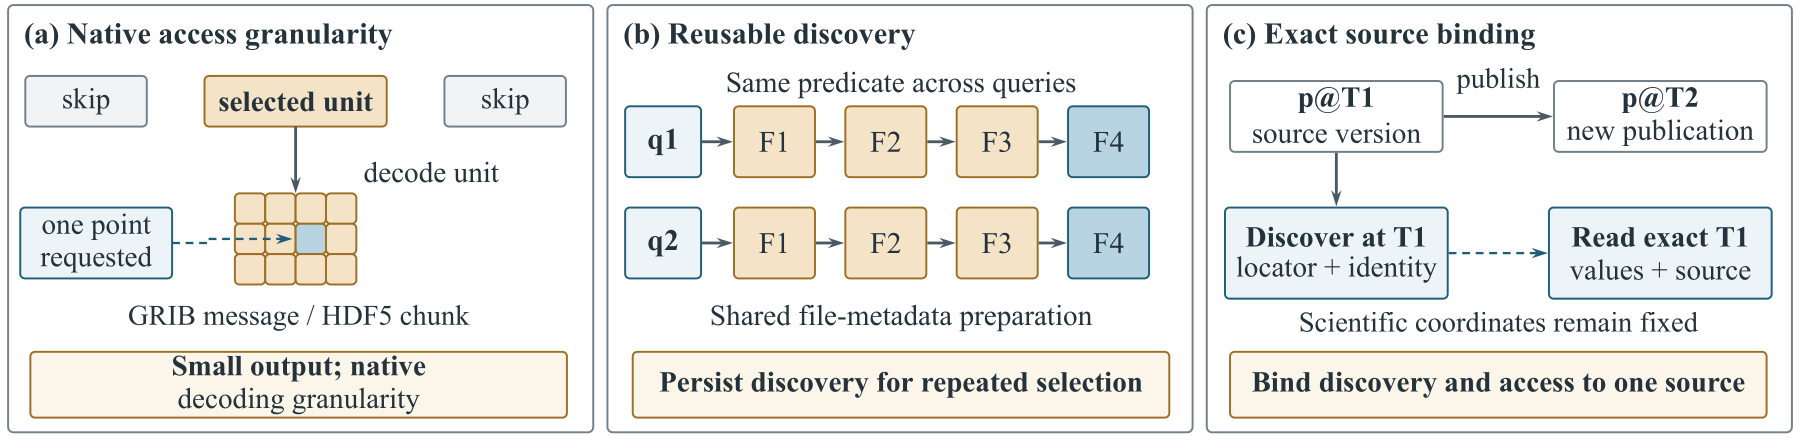
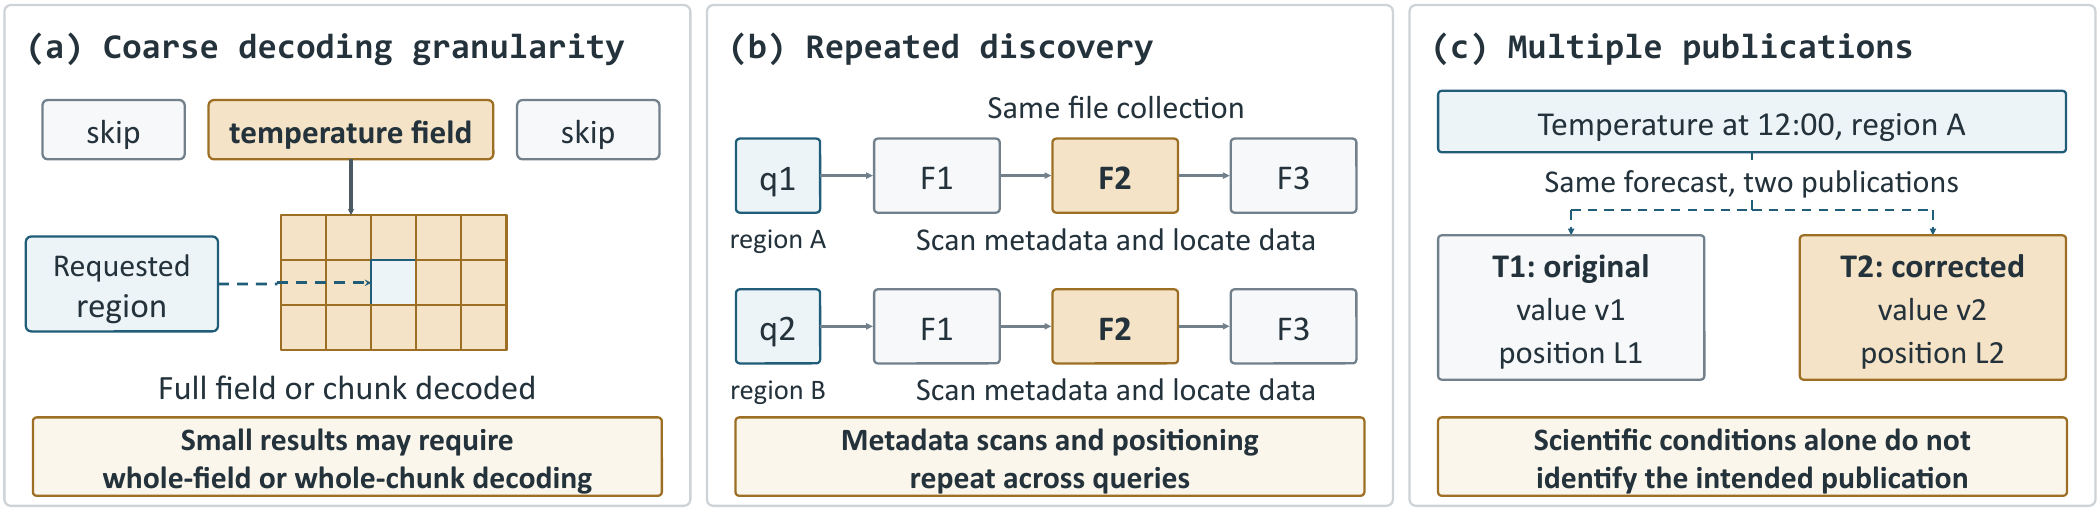
docs: update readme

diff --git a/README.md b/README.md
@@ -1,12 +1,14 @@
-# IoTDB-FS
+# SciRoute
 
-**Layered query processing for structured scientific files.**
+**From scientific queries to native file access.**
 
 **English** | [简体中文](README.zh-CN.md)
 
-IoTDB-FS connects scientific metadata, native file layouts, and exact source versions in a unified **Structured Blob** representation. It combines filesystem access with database query processing so that applications can select scientific fields across files and publication versions while retaining their original encoding and provenance.
+SciRoute unifies scientific selection and publication-version selection through **semantic access paths**. A **Structured Blob** associates scientific and structural metadata, native layout, and original encoded content with an exact published file version. Reusable metadata and locators avoid repeated discovery while preserving the requested interpretation and source.
 
-This repository contains two execution paths: **FS-index**, a standalone index with native readers, and **IoTDB-FS**, a managed filesystem and query runtime backed by IoTDB. It accompanies the research manuscript *Beyond Opaque Byte Streams: Layered Query Processing for Structured Scientific Files*.
+This repository contains two execution paths: **FS-index**, a standalone index with native readers, and **IoTDB-FS**, a managed filesystem and query runtime backed by IoTDB. It accompanies *SciRoute: From Scientific Queries to Native File Access*. The build targets and runtime retain the IoTDB-FS name.
+
+Start with [standalone FS-index](#standalone-fs-index) for native-library verification, [managed IoTDB-FS](#managed-iotdb-fs) for service setup, or [paper reproduction](#reproducing-the-paper) for workload and measurement requirements.
 
 ## Why index scientific files?
 
@@ -14,15 +16,15 @@ Selecting a small scientific result can still require repeated file discovery an
 
 ![Scientific-file access: native decoding granularity, reusable discovery, and exact source-version binding.](resources/readme/iotdb-fs-motivation.png)
 
-*Figure from the manuscript: small outputs, repeated discovery, and source identity are distinct parts of query cost and correctness.*
+*Latest manuscript Figure 1: coarse decoding granularity, repeated discovery, and multiple publications. Scientific conditions alone do not identify the intended publication.*
 
 ## Design
 
-A Structured Blob associates publication identity, typed scientific metadata, native layout, and original bytes. Its semantic index maps scientific predicates to native units; native indexes or supplementary access structures locate those units.
+A Structured Blob associates publication identity, typed scientific metadata, native layout, and original bytes. A declared **semantic mapping** establishes quantities, units, coordinates, time conventions, and missing-value rules. Semantic access paths associate these meanings with native units and source-specific locators; reader capabilities determine the physical plan.
 
 ![Structured Blob and layered query processing, from version binding through discovery and format planning to execution and typed results.](resources/readme/iotdb-fs-framework.png)
 
-*Figure from the manuscript. The FS-index panel includes the paper's experimental profiles; the standalone component's implemented scope is listed below.*
+*Latest manuscript Figure 2: source binding, reusable discovery, native planning, and execution/results retain the selected source throughout. [Figure provenance](resources/readme/README.md) records the manuscript revision and asset hashes.*
 
 The query path follows four steps:
 
@@ -52,13 +54,13 @@ FS-index supports incremental maintenance; its intended use is not restricted to
 - **HDF5:** dataset metadata and native selections; the managed adapter provides `iotdb-indexed` and explicitly bound `native-hdf5` modes. See the [HDF5 query-mode contract](docs/contracts/hdf5-query-modes.md).
 - **Arrow IPC:** the managed adapter supports its declared tabular and nested-array profiles. Scientific roles require verified format or product metadata; arbitrary column names do not establish units or time semantics.
 
-The standalone [`fs_index/`](fs_index/README.md) library currently implements the bounded GRIB/HDF5 profile: six attribute equalities and complete 4,096-element selected units. General HDF5 role mapping and Arrow adaptation are outside that library's current interface. The manuscript's agent-assisted bindings are checked adaptations, not automatic semantic inference for arbitrary files.
+The standalone [`fs_index/`](fs_index/README.md) library currently implements the bounded GRIB/HDF5 profile: six attribute equalities and complete 4,096-element selected units. General HDF5 role mapping and Arrow adaptation are outside that library's current interface. The paper also evaluates separate Arrow sidecars and a large-file Python catalog profile; these are not the same API as the C++ fixed-unit library. Agent-proposed semantic mappings are checked against source records. The evaluated external mapping versions are fixed; dynamic mapping-version propagation is not an evaluated capability.
 
 ## Getting started
 
 ```bash
-git clone https://github.com/thulab/IoTDB-FS.git
-cd IoTDB-FS
+git clone https://github.com/thulab/SciRoute.git
+cd SciRoute
 ```
 
 ### Standalone FS-index
@@ -74,6 +76,28 @@ cmake --build build/fs-index --target fs_index_native --parallel 2
 ```
 
 The library is `build/fs-index/libfs_index_native.so`. See the [FS-index guide](fs_index/README.md) for the Python API, input requirements, incremental publication, and functional/recovery tests. Test builds enable fault-injection hooks; use a separate Release build with tests disabled for measurements.
+
+### Verify before benchmarking
+
+Two Python-only catalog/handle-lifecycle checks use fixture readers and need no IoTDB service or native library:
+
+```bash
+python3 -m unittest fs_index.tests.test_lifecycle fs_index.tests.test_hdf5_handles -v
+```
+
+For real GRIB/HDF5 reads and maintenance/recovery gates, install Python **3.10+**, NumPy and h5py, then use a separate test build. The ecCodes sample definitions must be available. Match the native-library profile described in [FS-index](fs_index/README.md); some experiment generators additionally require h5py to load HDF5 1.14.4.
+
+```bash
+cmake -S fs_index -B build/fs-index-test \
+  -DCMAKE_BUILD_TYPE=Release \
+  -DHDF5_DIR=/path/to/hdf5-1.14.4/lib/cmake/hdf5 \
+  -DPython3_EXECUTABLE=/path/to/venv/bin/python \
+  -DFS_INDEX_BUILD_TESTS=ON
+cmake --build build/fs-index-test --target fs_index_native --parallel 2
+ctest --test-dir build/fs-index-test --output-on-failure
+```
+
+CTest registers `fs_index_native_functional` and `fs_index_maintenance` and supplies the native-library path. These tests generate small fixtures; passing them establishes functional checks, not the paper's performance results. Use the separate tests-disabled build above for measurements.
 
 ### Managed IoTDB-FS
 
@@ -113,21 +137,54 @@ fusermount -u /path/to/mount
 
 For query syntax, deployment, and configuration details, see the [user manual](docs/knowledge/user_manual/01-overview.md) (Chinese) and the contracts below.
 
-## Documentation and experiments
+## Reproducing the paper
 
-| Topic | Entry point |
+**Current artifact scope:** this repository provides implementation source, dependency locks, functional tests, and retained experiment drivers. It is **not yet a self-contained archive for reproducing every paper number**. The custom SDK/server, full data and converted inputs, accepted scientific mappings, and some frozen controller/raw-result bundles are external prerequisites. Local paths and historical report names in older protocols are not public download links.
+
+### 1. Pin the implementation and environment
+
+Record `git rev-parse HEAD`, `git status --short`, compiler/OS/CPU details, the [dependency-lock](ci/dependencies.lock.json) digest, loaded native-library versions, binary hashes, and the Python environment (`python3 -m pip freeze`). The lock specifies the native CI profile; it does not lock all experiment Python packages.
+
+The paper's measurements use Ubuntu 24.04.4 LTS, Intel Xeon Gold 6130 at 2.10 GHz, 32 logical CPUs, and 189–378 GiB RAM across campaigns. The CI build profile is Ubuntu 22.04/GCC 11. Local query experiments share two CPU cores across client, native helper, service and DataNode, with a 2 GiB query-memory budget; database memory is separately bounded and differs between campaigns. Use each protocol's actual limits rather than interpreting this as a 2 GiB total-system limit. Remote-access experiments use separate query/storage budgets on one host.
+
+### 2. Prepare data, mappings, and native oracles
+
+| Input family | Required preparation |
 | --- | --- |
-| Scientific data and execution concepts | [Domain context](CONTEXT.md) |
-| Standalone index and maintenance API | [FS-index](fs_index/README.md) · [Maintenance contract](docs/contracts/fs-index-maintenance-v2.md) |
-| Query and adapter organization | [Module layout](docs/knowledge/query-module-layout.md) |
-| Query scheduling and result delivery | [Task scheduler](docs/contracts/query-task-scheduler.md) · [Result fetch](docs/contracts/result-fetch.md) |
-| User and deployment documentation | [User manual](docs/knowledge/user_manual/01-overview.md) · [Documentation index](docs/README.md) |
-| Build, tests, and packaging | [CI](ci/README.md) · [Unit tests](tests/unit/README.md) · [Integration tests](tests/integration/README.md) · [Packaging](packaging/README.md) |
-| Fixed query workloads | [Experiment matrix](experiments/fixed_matrix/README.md) |
-| Cross-file and historical queries | [Multi-file experiments](experiments/multi_file/README.md) · [Version experiments](experiments/cross_version/README.md) |
-| Maintenance and stored-data query sessions | [Maintenance](experiments/maintenance_lifecycle/README.md) · [Resident queries](experiments/resident_table5/README.md) |
+| Controlled GRIB/HDF5 collections and histories | Retain the corpus/case identities and generators in [FM1](experiments/fixed_matrix/README.md) and [multi-file preparation](experiments/multi_file/README.md). The fixed-unit profile uses four 64×64 units per file, six attribute equalities, and two selected units. A new generated corpus is a new run, not the archived dataset identity. |
+| Real GFS GRIB, OISST and GEOS HDF5 | Obtain the exact product files and source digests recorded by the accepted campaign. A product family name or a later daily download is insufficient. Native helpers are under [single-file experiments](experiments/single_file/README.md); full source inventories are not bundled here. |
+| Beijing, Jena and the Arrow extension | Use [Beijing source data](https://archive.ics.uci.edu/dataset/501/beijing+multi+site+air+quality+data), [Jena records](https://www.bgc-jena.mpg.de/wetter/weather_data.html), [Appliances](https://archive.ics.uci.edu/dataset/374/appliances+energy+prediction), and the paper's [GIFT-Eval revision](https://huggingface.co/datasets/Salesforce/GiftEval/tree/30841734ac5cfddbd0c3bad6d09d2b6b32becbb0). Exact conversions, sidecars, query manifests and source-record checks are also needed; the complete accepted Arrow experiment bundle is not packaged in this repository. |
 
-The manuscript compares FS-scan, indexed native access, and managed execution under specified workloads. Reproduction requires the data, dependency versions, query semantics, cache state, and timing boundaries recorded for each experiment. Experiment directories include protocols and scripts; full datasets and archived run outputs are not all bundled in this repository. Some documentation is currently available in Chinese only.
+Beijing uses flat columns with verified calendar-to-row alignment; Jena uses nested lists and ordinal windows. Do not infer time zones, units or channel meaning from Arrow types alone. Verify source/version identity, shapes, ordering, values, validity masks and applicable coordinates against native readers before accepting a run. Record source hashes and the semantic-mapping revision shared by all paths.
+
+### 3. Select the matching driver and evidence bundle
+
+| Paper study | Retained entry points | Additional requirements / boundary |
+| --- | --- | --- |
+| Semantic mappings and index construction | [FS-index tests/API](fs_index/README.md), format [contracts](docs/README.md) | Offline rebuild time excludes Agent development; the complete accepted Beijing/Jena adaptation bundle is external. |
+| Cross-file and historical queries | [FM1 protocol](experiments/fixed_matrix/README.md), `experiments.fixed_matrix.run`, `hdf5_filesystem`, `multiversion_scan` | Require sealed source collections, native/build bindings and registration receipts. Current source alone does not reconstruct every accepted campaign; strict historical controllers need their matching snapshots. |
+| Single-file selections and independent sessions | [Single-file protocol](experiments/single_file/README.md), `section42_20261026/` | Separate managed-mode study; do not relabel it as the three-path FS-index experiment. |
+| Warm queries over stored data | [Resident protocol](experiments/resident_table5/README.md), `run.py`, `cache_run.py` | Require existing durable sources, catalogs, owner journals and prior run manifests. HDF5 native-handle measurements are a separate follow-up; managed results retain the original campaign. |
+| Incremental publication/maintenance | [M1 protocol](experiments/maintenance_lifecycle/README.md), `run.py`, `supervise.py` | Eight initial files, sixteen updates, 1/10/100 queries per update, three paths and three rounds. Complete traces include copying/publication; they are not marginal indexing costs on already stored DB payloads. |
+| Simulated remote access and Arrow three-path extension | Current format/runtime source; campaign-specific external bundles | Accepted network setup/controllers, Arrow sidecars, manifests and raw measurements are not fully distributed here. Remote results are single-host delay emulation, not physical multi-host execution. |
+
+Use the [experiment index](experiments/README.md) to navigate retained helpers. Script names such as `resident_table5` are historical identifiers, not current paper table numbers. Some code under `tests/benchmarks/arrow_training/` supplies native helpers; its older training runs are not substitutes for the paper's Arrow extension.
+
+Run service experiments only in a dedicated environment: their supervisors manage cgroups, process affinity, private mounts and namespaces. Supply new work directories and the required prior manifests; keep service-restoration receipts. Frozen source/binary checks are part of the protocol. Do not bypass them or relabel a new binary as an accepted historical one.
+
+### 4. Preserve the measurement contract
+
+- **Same task:** align scientific mappings, selected publications, units, outputs and validity masks across FS-scan, FS-index and IoTDB-FS. Resolve publication policy before scientific filtering.
+- **Separate clocks:** report acquisition/publication, index construction, update/commit, recovery, query serving and finalization under each study's boundary. Already stored managed data must not be charged another complete import for a query-serving comparison. IoTDB-FS couples index construction to publication, so these measurements do not isolate its marginal index-maintenance cost.
+- **Cache state:** retain the documented OS/database caches and state whether readers reopen or retain handles. Warm first requests after verification are not cold-cache measurements. Attribute discovery, handle reuse and decoded-state reuse separately.
+- **Statistics:** Arrow windows report medians over 30 warm requests; the collection campaign reports medians over 10 filesystem or 40 managed requests per cell, with min–max request ranges. History reports the median and sample SD of three round medians. Independent-session tables use medians, while stored-data session wall/Q and incremental trace totals use arithmetic means of three rounds. Throughput is completed work divided by measured batch time; preserve per-campaign definitions.
+- **Acceptance:** preserve all measured samples, failed attempts, source/binary hashes, native-oracle outcomes and resource-restoration status. A query's stages can add before aggregation, but separately aggregated phase medians need not sum to the latency median.
+
+In the paper's controlled 512-file GRIB case, the reported medians are **1984.135 ms (FS-scan), 8.083 ms (FS-index), and 18.177 ms (IoTDB-FS)**: approximately **245× and 109×** speedups over scanning. These are warm, workload-specific comparisons, not default performance guarantees. Known-position Arrow controls approach parity; managed execution can cost more than native access.
+
+## Documentation
+
+[FS-index API](fs_index/README.md) · [Maintenance contract](docs/contracts/fs-index-maintenance-v2.md) · [Query modules](docs/knowledge/query-module-layout.md) · [User manual](docs/knowledge/user_manual/01-overview.md) · [Unit tests](tests/unit/README.md) · [Integration tests](tests/integration/README.md) · [Packaging](packaging/README.md) · [Documentation index](docs/README.md)
 
 ## Repository layout
 

diff --git a/resources/readme/README.md b/resources/readme/README.md
@@ -1,10 +1,17 @@
 # README figures
 
-These figures are copied without modification from the manuscript *Beyond Opaque Byte Streams: Layered Query Processing for Structured Scientific Files* (working version, 2026-10-31).
+Figures 1 and 2 are copied byte-for-byte from *SciRoute: From Scientific Queries
+to Native File Access*, manuscript revision `eaea499bb99d1d71436700f96aedaa18479c4bc2` (2026-11-02).
+The [manifest](manifest.json) records PNG hashes, corresponding vector-PDF hashes,
+and the manuscript PDF hash. These are document identities, not benchmark code
+or runtime identities.
 
-| Asset | Manuscript figure | SHA256 |
+| Asset | Paper figure | Meaning |
 | --- | --- | --- |
[2 lines of base64/hex data omitted]
+| [Motivation](iotdb-fs-motivation.png) | Figure 1 | Coarse decoding, repeated discovery, multiple publications |
+| [Query pipeline](iotdb-fs-framework.png) | Figure 2 | Source binding, discovery, native planning, execution and results |
 
-The images describe the paper model and execution settings. See the repository README for the implemented scope of the standalone FS-index component.
+The images show the paper model and execution settings. The main README and
+FS-index guide distinguish the paper's experimental adaptations from the
+standalone component's supported interface. No figures were regenerated for
+this README update.
